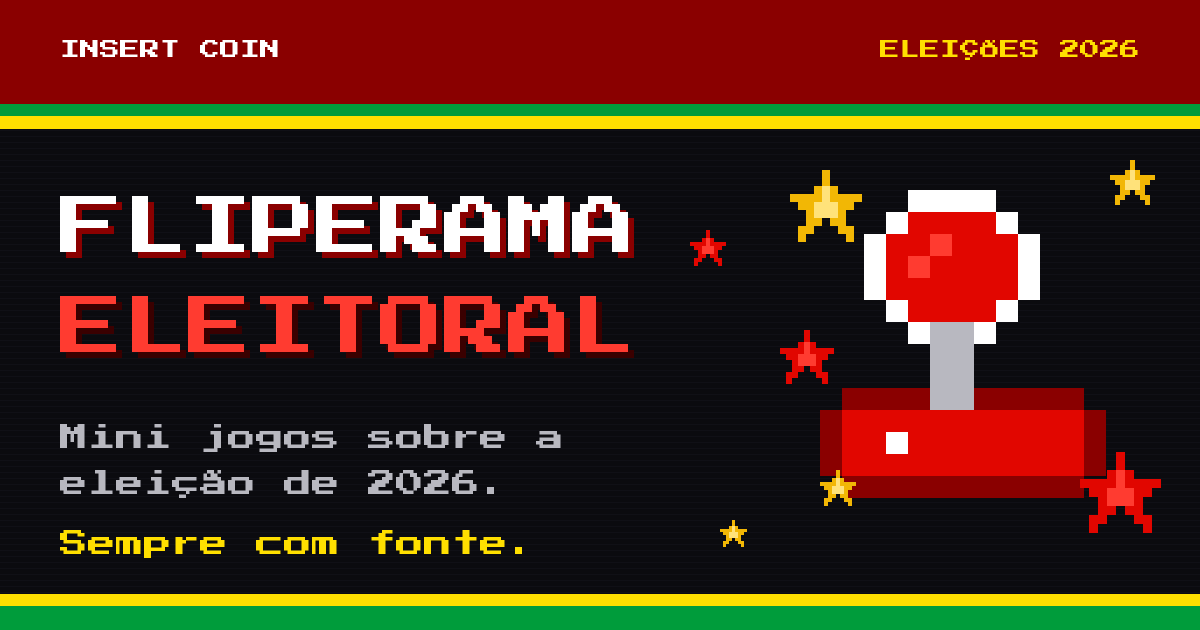
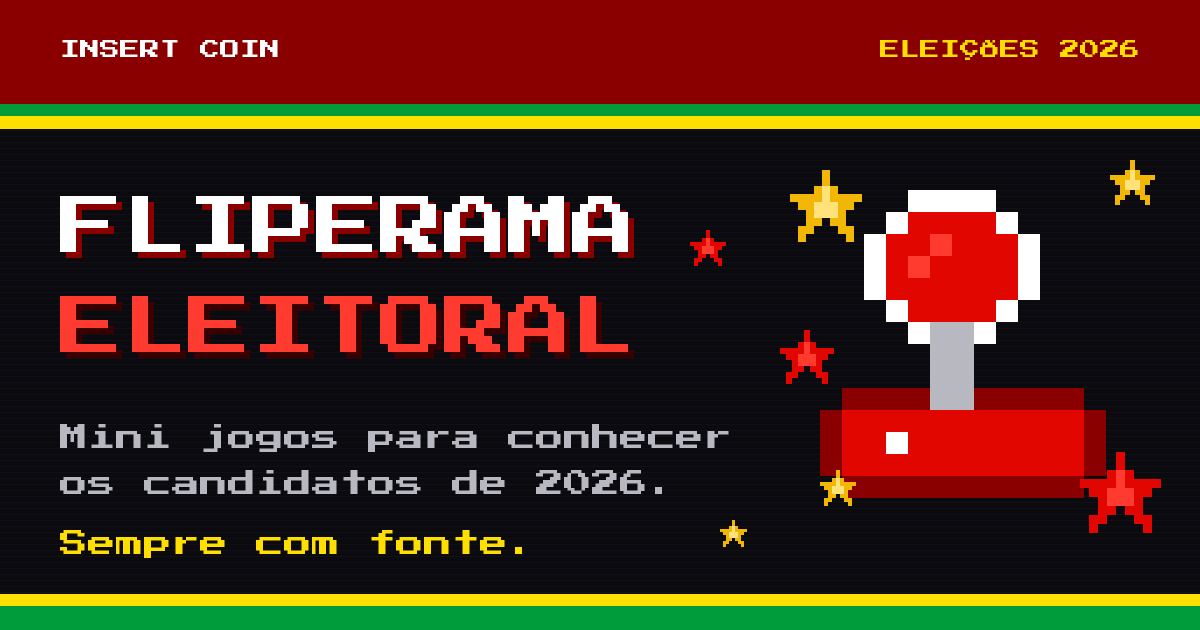
F2: ajusta textos de apresentação

Changed region(s): [[0.2775, 0.6635, 0.6167, 0.7841], [0.0617, 0.754, 0.185, 0.7841], [0.2158, 0.754, 0.2467, 0.7841]]

diff --git a/index.html b/index.html
@@ -4,14 +4,14 @@
   <meta charset="utf-8">
   <meta name="viewport" content="width=device-width, initial-scale=1">
   <title>Fliperama Eleitoral — jogue e saia sabendo</title>
-  <meta name="description" content="Mini jogos de navegador sobre a eleição de 2026. Jogue em 1 minuto e saia sabendo um fato, sempre com fonte.">
+  <meta name="description" content="Mini jogos para conhecer melhor os candidatos à Presidência em 2026. Jogue e saia sabendo um fato, sempre com fonte.">
   <meta name="theme-color" content="#8A0000">
 
   <!-- Aparência nas redes (WhatsApp, Instagram, X) -->
   <meta property="og:type" content="website">
   <meta property="og:site_name" content="Fliperama Eleitoral">
   <meta property="og:title" content="Fliperama Eleitoral">
-  <meta property="og:description" content="Mini jogos sobre a eleição de 2026. Jogue em 1 minuto e saia sabendo um fato, sempre com fonte.">
+  <meta property="og:description" content="Mini jogos para conhecer melhor os candidatos à Presidência em 2026. Jogue e saia sabendo um fato, sempre com fonte.">
   <meta property="og:url" content="https://jessicamelo0532.github.io/fliperama-eleitoral/">
   <meta property="og:image" content="https://jessicamelo0532.github.io/fliperama-eleitoral/assets/img/og-image.png">
   <meta property="og:image:width" content="1200">
@@ -48,7 +48,7 @@
           <span class="estrela estrela--p estrela--brilho"></span>
         </div>
         <h1>Jogue. Aprenda. Vote.</h1>
-        <p>Mini jogos de 1 minuto sobre a eleição de 2026. Toda informação vem com fonte para você conferir.</p>
+        <p>Mini jogos para conhecer melhor os candidatos à Presidência em 2026. Toda informação vem com fonte para você conferir.</p>
       </section>
 
       <nav aria-label="Categorias de jogos">

diff --git a/sobre.html b/sobre.html
@@ -10,7 +10,7 @@
   <meta property="og:type" content="website">
   <meta property="og:site_name" content="Fliperama Eleitoral">
   <meta property="og:title" content="Sobre o Fliperama Eleitoral">
-  <meta property="og:description" content="Mini jogos sobre a eleição de 2026, sempre com fonte. Saiba como o conteúdo é feito.">
+  <meta property="og:description" content="Mini jogos para conhecer melhor os candidatos à Presidência em 2026. Saiba como o conteúdo é feito.">
   <meta property="og:url" content="https://jessicamelo0532.github.io/fliperama-eleitoral/sobre.html">
   <meta property="og:image" content="https://jessicamelo0532.github.io/fliperama-eleitoral/assets/img/og-image.png">
   <meta property="og:image:width" content="1200">
@@ -40,7 +40,7 @@
     <div class="conteiner texto">
       <h1>Sobre o projeto</h1>
 
-      <p>O <strong>Fliperama Eleitoral</strong> é um portal de mini jogos de navegador sobre a eleição presidencial de 2026. A ideia é simples: jogar por um minuto e sair sabendo um fato, com a fonte ali do lado para conferir.</p>
+      <p>O <strong>Fliperama Eleitoral</strong> é um portal de mini jogos de navegador para conhecer melhor os candidatos à Presidência em 2026. A ideia é simples: jogar e sair sabendo um fato, com a fonte ali do lado para conferir.</p>
       <p>Os jogos tratam de propostas do presidente Lula, de checagem de notícias (fato ou fake) e de investigações envolvendo Flávio Bolsonaro. É um projeto independente e voluntário, sem anúncios, sem impulsionamento pago e sem vínculo com partidos ou campanhas.</p>
 
       <h2>Como escolhemos as fontes</h2>

diff --git a/docs/SPEC.md b/docs/SPEC.md
@@ -8,7 +8,7 @@
 **Fliperama Eleitoral** é um portal de mini jogos de navegador, inspirado nos portais de jogos dos anos 2000 (estilo ojogos.com), em que cada jogo transmite informação política verificável sobre a eleição presidencial de 2026: propostas do presidente Lula, checagem de fato ou fake e investigações envolvendo Flávio Bolsonaro.
 
 - **Público:** eleitores jovens e adultos, majoritariamente no celular.
-- **Promessa:** "jogue em 1 minuto, saia sabendo um fato com fonte".
+- **Promessa:** "jogue e saia sabendo um fato com fonte".
 - **Prazo:** plataforma no ar em 1 dia; conteúdo congelado em **24/10/2026** (véspera do 2º turno, 25/10).
 
 ## 2. Objetivos e não-objetivos

diff --git a/README.md b/README.md
@@ -2,7 +2,7 @@
 
 ![Fliperama Eleitoral](assets/img/og-image.png)
 
-**Mini jogos de navegador sobre a eleição presidencial de 2026. Jogue em um minuto e saia sabendo um fato, sempre com fonte.**
+**Mini jogos para conhecer melhor os candidatos à Presidência em 2026. Jogue e saia sabendo um fato, sempre com fonte.**
 
 ▶ **Jogue em [jessicamelo0532.github.io/fliperama-eleitoral](https://jessicamelo0532.github.io/fliperama-eleitoral/)**
 

diff --git a/docs/jogos/MODELO.md b/docs/jogos/MODELO.md
@@ -15,7 +15,7 @@ O que a pessoa faz e o que ela aprende.
 - O que a pessoa faz a cada rodada:
 - Como ganha ou perde:
 - Como termina:
-- Duração alvo de uma partida:
+- Duração estimada:
 
 ## 4. Controles
 - Teclado:
